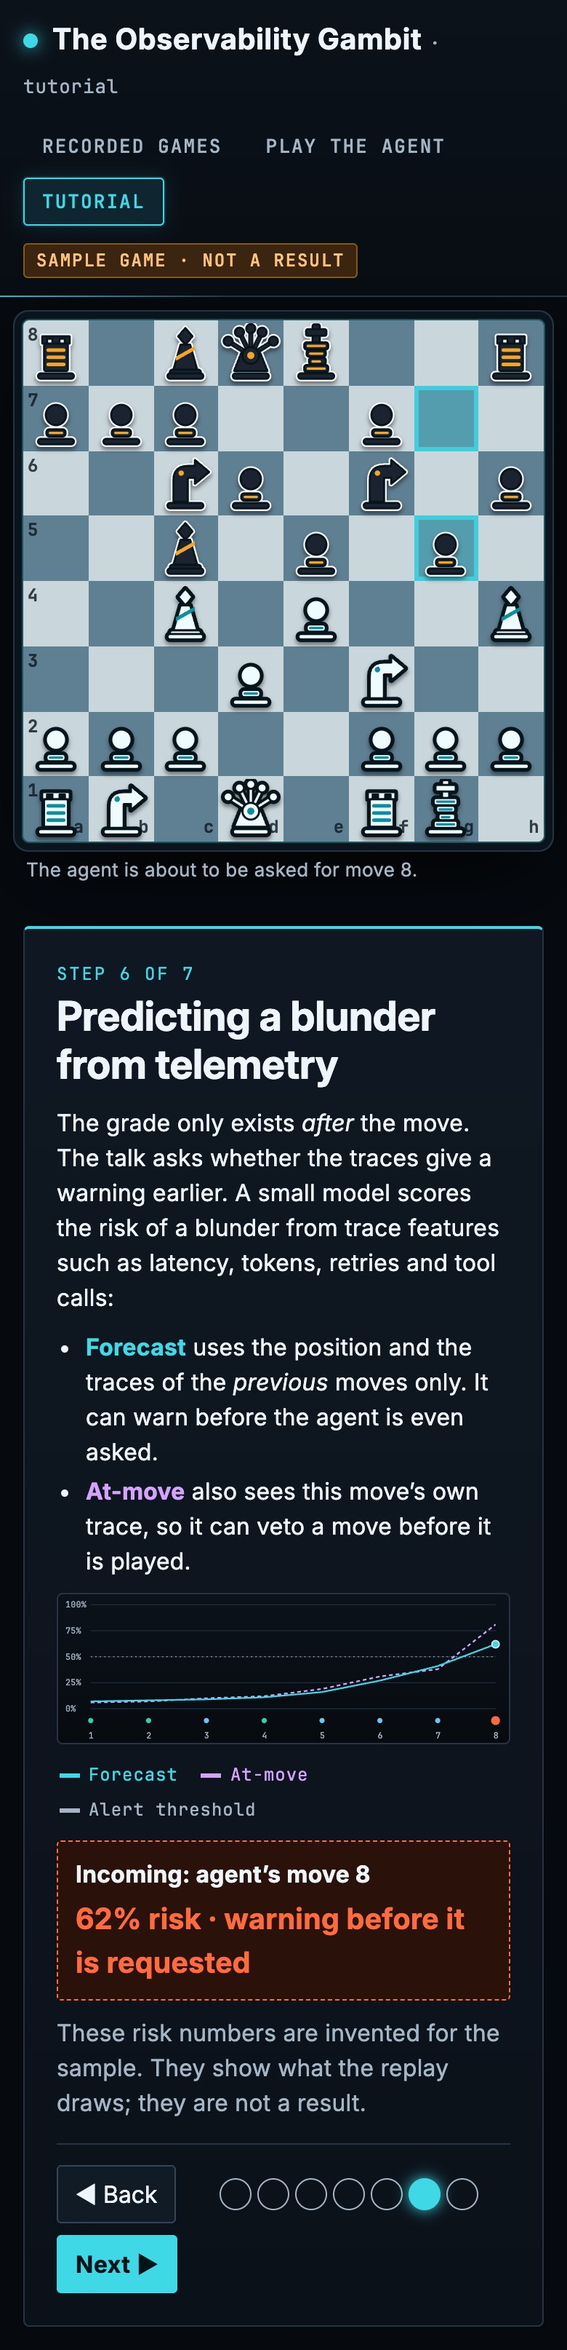
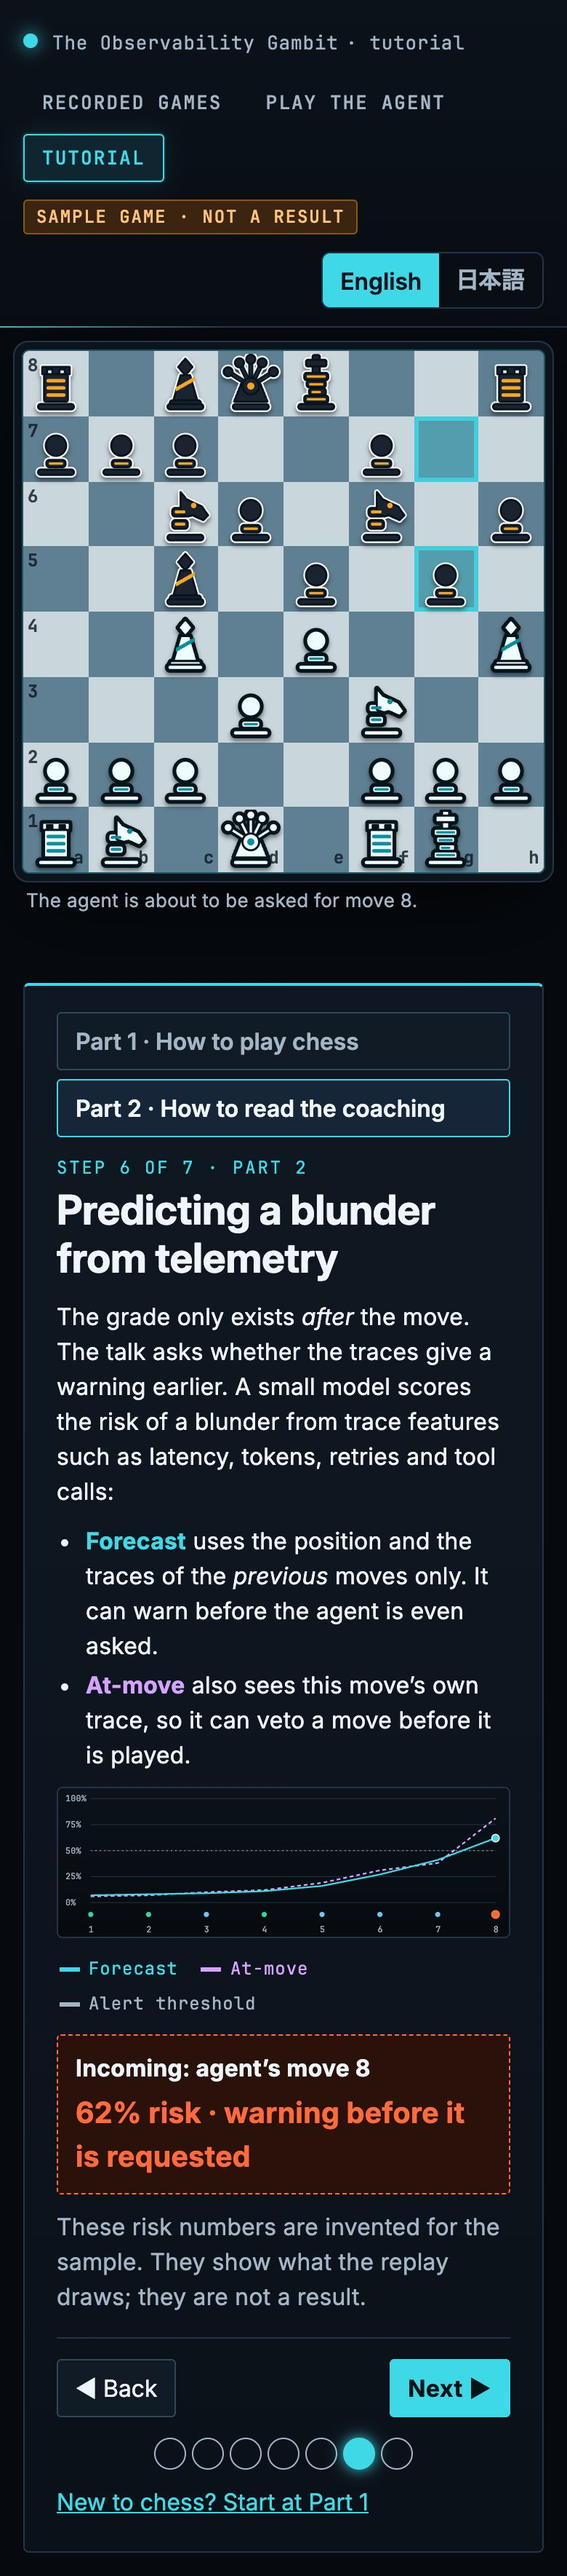
feat(web): draw the knight as a trace instead of an arrow (#16)
* feat(web): draw the knight as a trace (waterfall span bars into a horse-profile head)

* no-mistakes(document): Docs already current; lint clean

* chore: remove accidentally committed __pycache__ bytecode

Changed region(s): [[0.0308, 0.0, 0.9846, 0.6815], [0.0923, 0.6815, 0.9231, 0.9913], [0.8615, 0.8364, 0.8923, 0.8674]]

diff --git a/scripts/gen_pieces.py b/scripts/gen_pieces.py
@@ -4,7 +4,8 @@
 Original artwork, drawn from scratch: every piece is built from observability shapes.
   king   = root-span stack topped by a cross       queen  = service-graph hub with five radiating nodes
   rook   = stacked metric tower                    bishop = diagonal trace line with a diamond head
-  knight = L-shaped jump arrow                     pawn   = a single dot-span
+  knight = waterfall of two span bars stepping up     pawn   = a single dot-span
+           into a horse-profile head (the L jump)
 Sides are told apart without colour: white is a pale fill with a dark outline and cyan bars,
 black is a dark fill with a light halo and amber bars.
 
@@ -50,8 +51,11 @@ T = {
           [("r", 34, 42, 32, 6, 3), ("r", 34, 54, 32, 6, 3), ("r", 34, 66, 32, 6, 3)]),
     "B": ([("p", "50,8 62,22 50,36 38,22"), ("p", "42,36 58,36 70,78 30,78"), ("r", 24, 78, 52, 8, 4), BASE],
           [("p", "34,56 66,38 66,45 34,63")]),
-    "N": ([("d", "M30 82 L30 46 Q30 22 54 22 L66 22 L66 12 L90 32 L66 52 L66 42 L54 42 L54 82 Z"), BASE, ("c", 44, 31, 0.1)],
-          [("c", 43, 34, 4.5)]),
+    # Knight: the L jump drawn as a trace. Two span bars stack up the neck (two along), then the head juts
+    # sideways (one across), like a waterfall whose child span steps out. The pointed horse profile with an
+    # ear and an eye node keeps it apart from the bishop's straight diagonal at 24 px.
+    "N": ([("r", 28, 60, 26, 14, 5), ("r", 28, 40, 26, 14, 5), ("p", "42,14 52,26 78,38 88,52 80,60 62,52 54,54 42,50"), BASE],
+          [("r", 32, 64, 18, 5, 2.5), ("r", 32, 44, 18, 5, 2.5), ("c", 64, 36, 4.5)]),
     # Queen: a wide service-graph hub. Five separate nodes on an arc, each tied to the hub by a span link,
     # so at 24 px it reads as a spiky crown that is clearly wider than the king's narrow tower.
     "Q": ([("l", 50, 54, 12, 30, 5), ("l", 50, 54, 31, 15, 5), ("l", 50, 54, 50, 9, 5), ("l", 50, 54, 69, 15, 5), ("l", 50, 54, 88, 30, 5),

diff --git a/internal/web/pieces_test.go b/internal/web/pieces_test.go
@@ -93,6 +93,24 @@ func TestEveryPieceAndColourRenders(t *testing.T) {
 	}
 }
 
+// The knight is drawn as a trace (span bars, a head and an eye node), not as the old
+// single-path arrow, and its accent marks stay on top of the outline for both sides.
+func TestKnightIsTraceStyle(t *testing.T) {
+	srv := replayOnly(t)
+	for _, c := range pieceColors {
+		_, body := svgFile(t, srv.URL, c+"N.svg")
+		if strings.Contains(body, "<path") {
+			t.Errorf("%sN: still the single-path arrow knight", c)
+		}
+		if n := strings.Count(body, "<rect"); n < 6 { // two span bars and the base, each as halo + fill
+			t.Errorf("%sN: %d rects, want span bars stacked on a base", c, n)
+		}
+		if !strings.Contains(body, "<polygon") || !strings.Contains(body, "<circle") {
+			t.Errorf("%sN: want a polygon head with an eye node", c)
+		}
+	}
+}
+
 // runOG executes the served og.js in node and returns the JSON the script prints.
 func runOG(t *testing.T, base, script string, out any) {
 	t.Helper()

diff --git a/docs/ui-trace-pieces/README.md b/docs/ui-trace-pieces/README.md
@@ -9,3 +9,6 @@ Captured with headless Chrome against `gambit serve --live --mock` (mock data, n
 - `replay-check-*`: a check (CHECK tag on the king)
 - `human-hover-*`: human mode, with a move's from (blue) and to (orange) squares marked
 - `tutorial-*`: tutorial pages using the same pieces and tags
+- `knight-candidates.png`: the old L-shaped arrow knight (OLD) and the four trace-style knights drawn for the redesign: NA (shipped: two waterfall span bars stepping up into a horse-profile head), NB (service-graph chain of nodes), NC (parent span with a child span branching sideways) and ND (three staggered waterfall bars). To swap, move that design's shapes into the `"N"` entry of `scripts/gen_pieces.py` and rerun it.
+
+The knight is the L jump drawn as a trace: two span bars stack up the neck (two along), then the head juts sideways (one across). Its pointed horse profile and eye node tell it apart from the bishop's straight diagonal at 24 px; white and black still differ by fill and outline, not hue.
